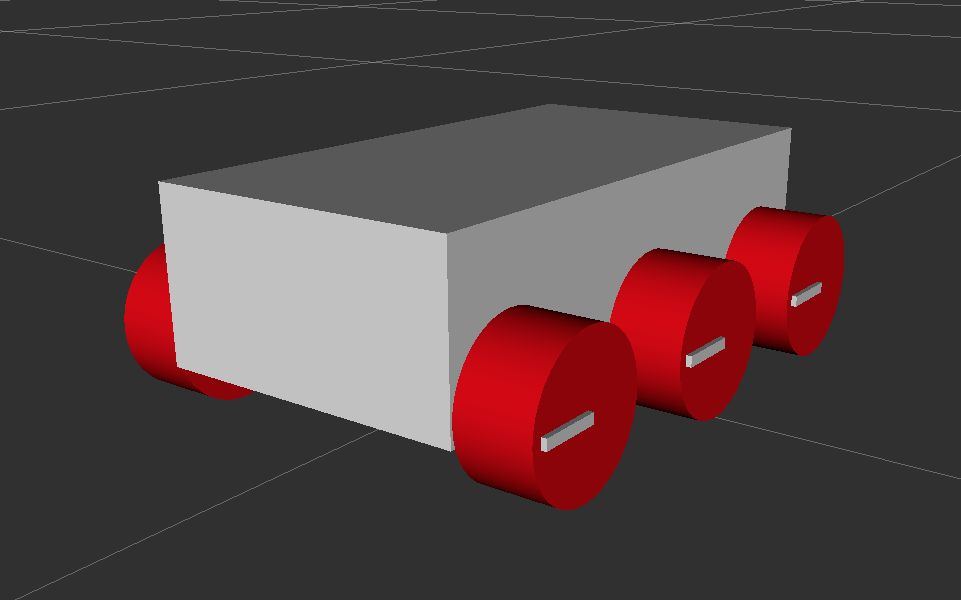
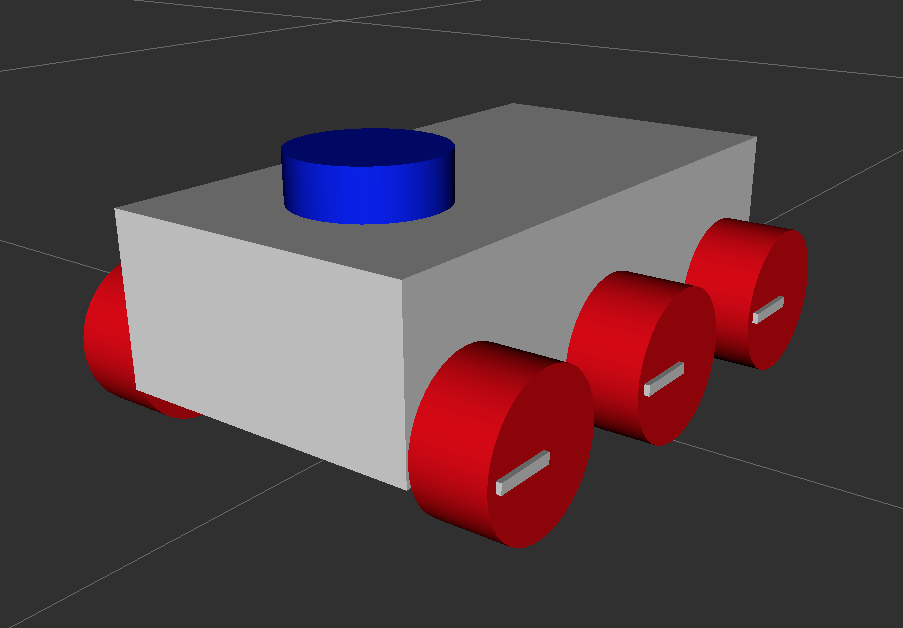
Update project description with lidar

diff --git a/README.md b/README.md
@@ -45,3 +45,7 @@ Open robot control plugin from menu - Plugins -> Robot tools -> Robot steering -
 Change linear and angular velocity to make robot moving in Gazebo simulation
 
 ![gazebo circle move animation](smallbot_gazebo/video/smallbot_circle_move.gif)
+
+Lidar readings can be visualized in RVIZ
+
+![rviz image](smallbot_description/images/smallbot_rviz_lidar.png)
